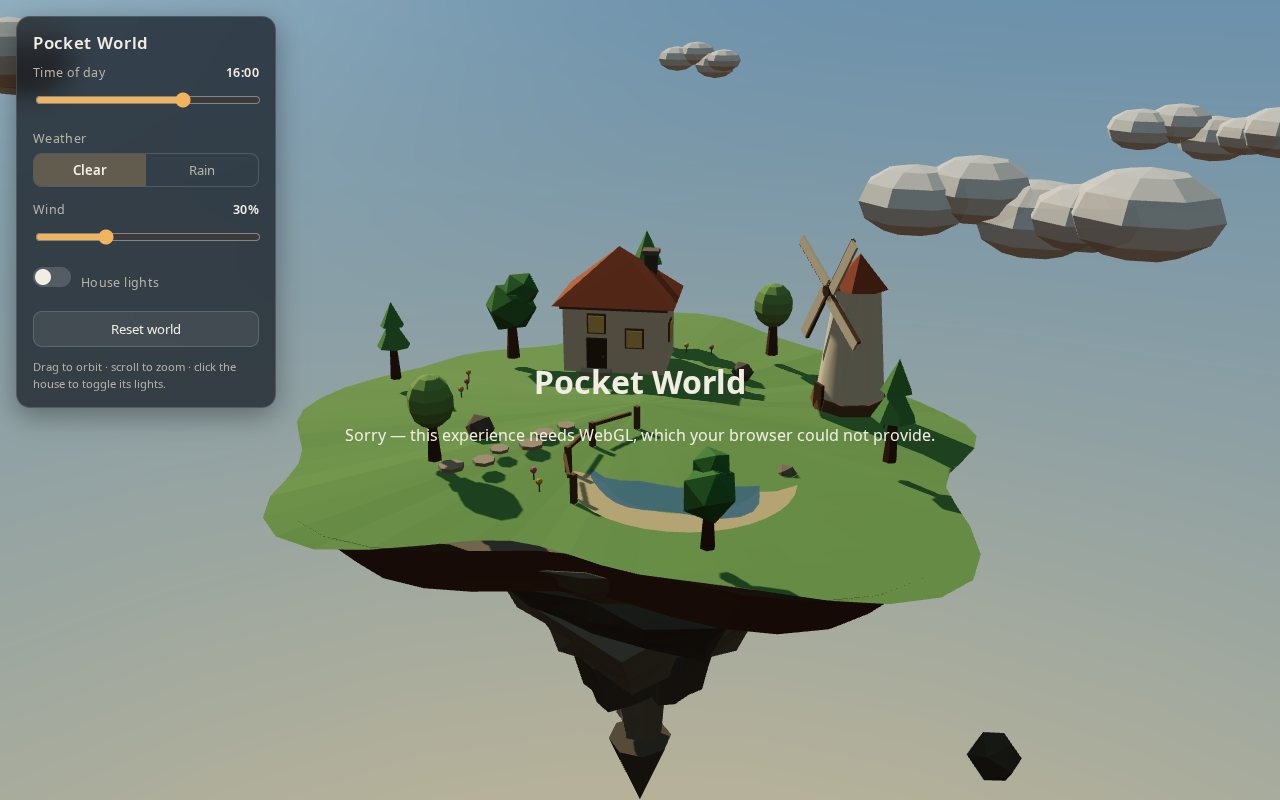
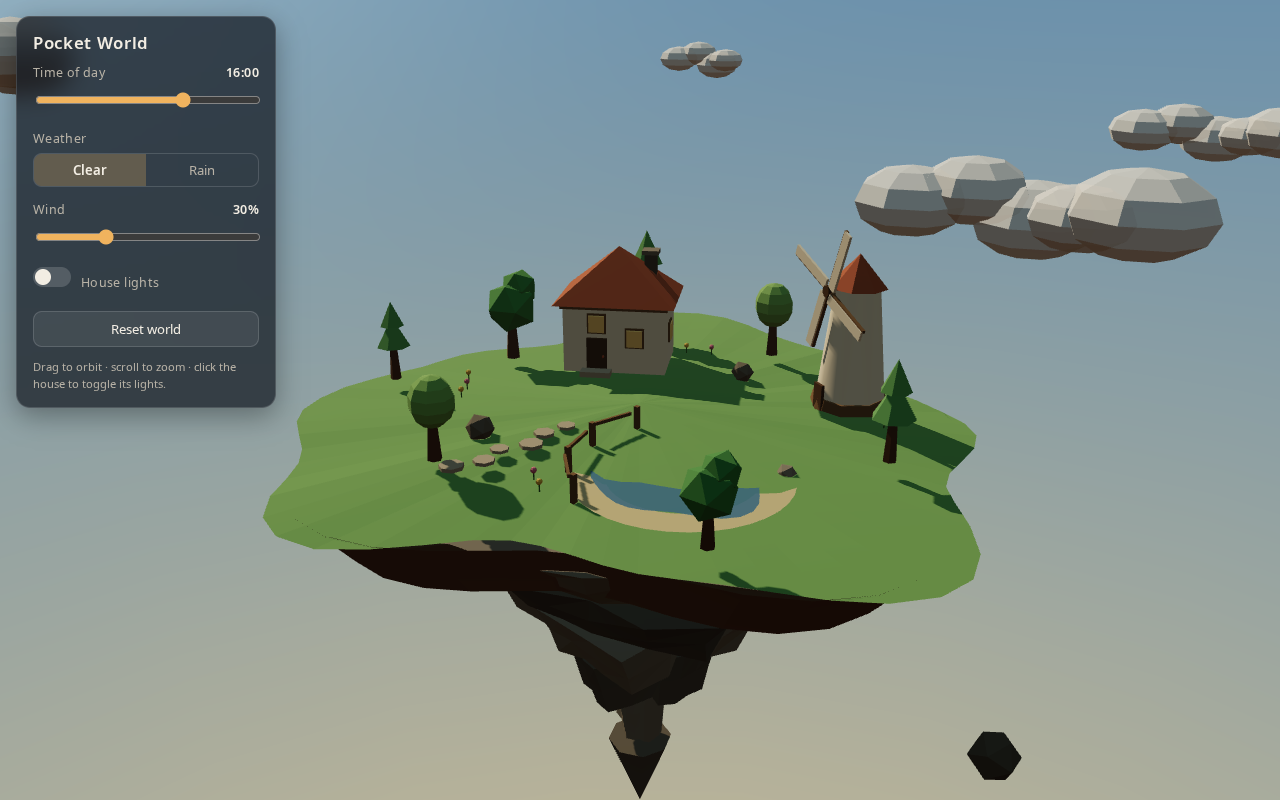
Fix WebGL fallback always visible (display overrides hidden attr); brighter night ambience; robust verify script

diff --git a/kimi-k3-workbuddy/src/main.ts b/kimi-k3-workbuddy/src/main.ts
@@ -200,7 +200,7 @@ function animate(): void {
   sun.color.copy(env.sunColor);
   sun.intensity = env.sunIntensity * rainDim + env.nightness * 0.25;
   ambient.color.copy(env.ambientColor);
-  ambient.intensity = env.ambientIntensity * rainDim + env.nightness * 0.15;
+  ambient.intensity = env.ambientIntensity * rainDim + env.nightness * 0.4;
   (scene.fog as THREE.FogExp2).color.copy(env.skyBottom);
   (scene.fog as THREE.FogExp2).density = env.fogDensity + rainMix * 0.012;
   applyEnvToSky(sky.uniforms, env, sunDir);

diff --git a/kimi-k3-workbuddy/src/ui.css b/kimi-k3-workbuddy/src/ui.css
@@ -202,6 +202,12 @@ input[type="range"] {
   padding: 24px;
 }
 
+/* An explicit `display` above beats the UA rule for the `hidden` attribute,
+   so the fallback would stay visible forever without this. */
+.fallback[hidden] {
+  display: none;
+}
+
 @media (max-width: 640px) {
   .panel {
     top: auto;
